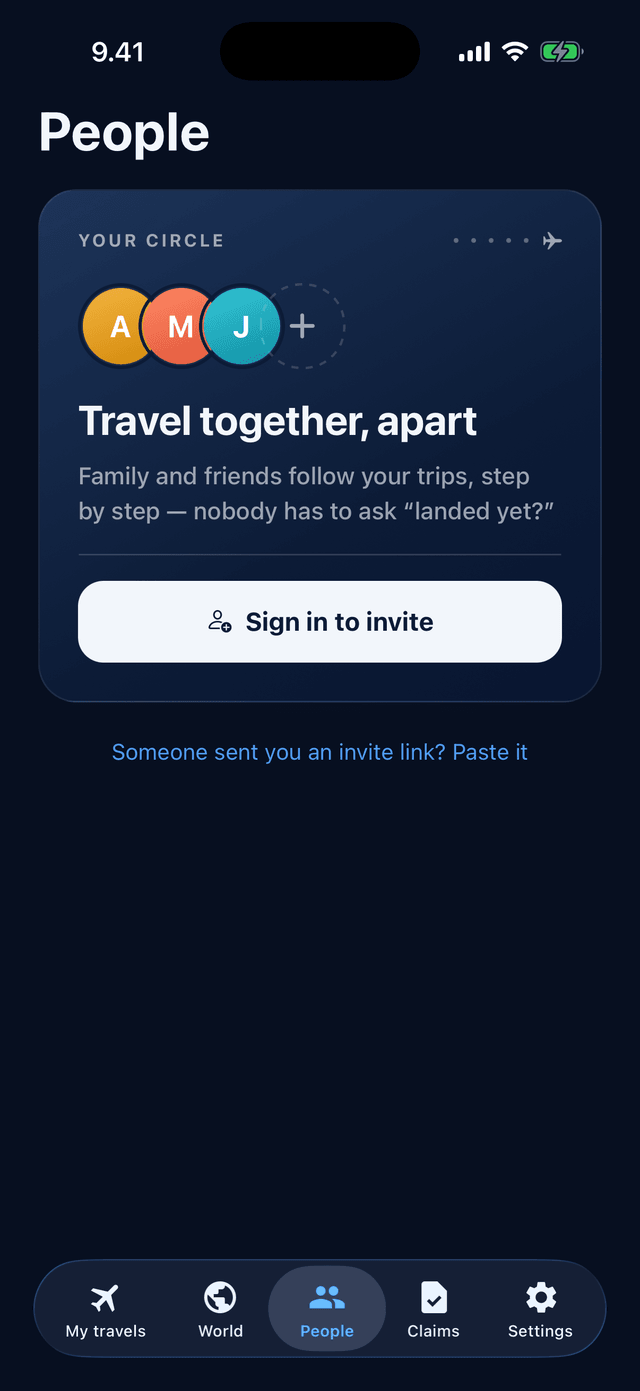
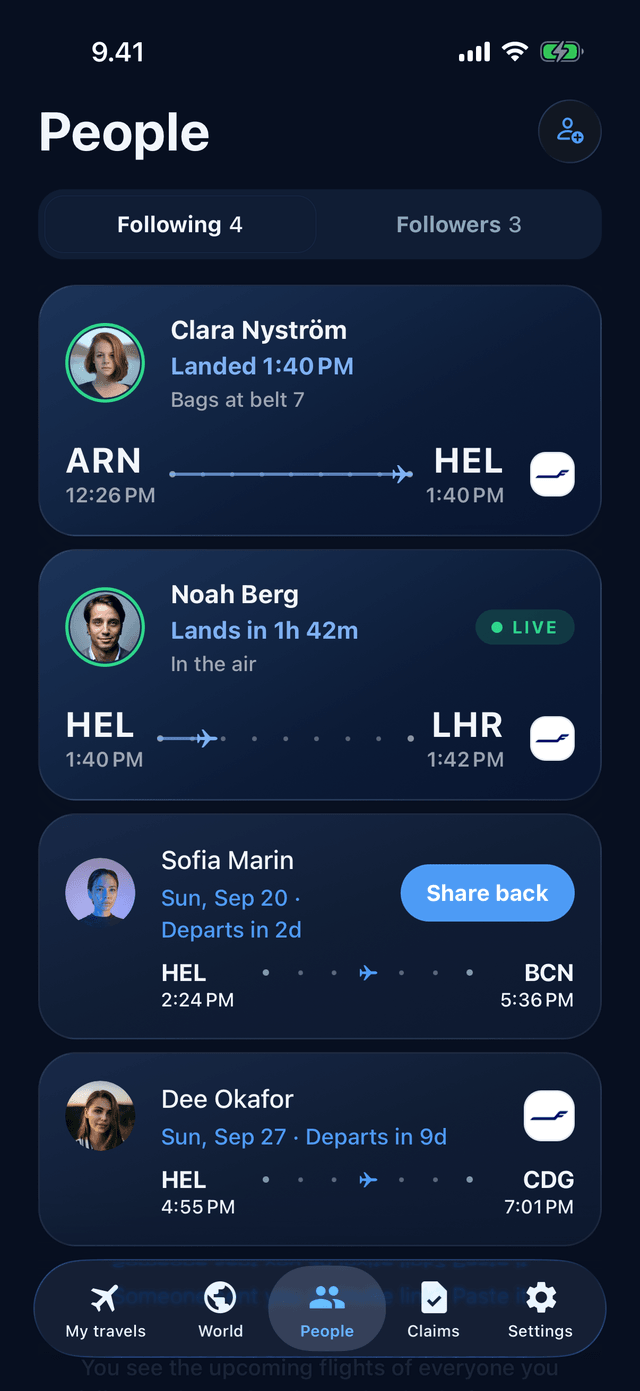
Website: People row shows a circle with real states, mocked on dev
The "People who fly with you" row's capture was the tab's empty state.
It is now Eve's People tab on the dev deployment with synthetic people
seeded by devTools:seedDemoCircle — one in the air right now, one landed
today, one departing in two days, one in nine, one follower waiting on a
follow-back — captured in both themes. The seeder now writes profile rows
for people with no Clerk account behind them, and Unsplash joins the
avatar allow-list so seeded people carry stock portraits rather than
letter avatars. No production accounts were created.

diff --git a/convex/devTools.ts b/convex/devTools.ts
@@ -152,6 +152,10 @@ export const seedDemoCircle = internalMutation({
     people: v.array(
       v.object({
         userId: v.string(),
+        /** Writes the profile row too — for a synthetic person with no Clerk
+         * account behind them (dev deployments). */
+        name: v.optional(v.string()),
+        imageUrl: v.optional(v.string()),
         relation: v.union(v.literal('follow'), v.literal('follower'), v.literal('mutual'), v.literal('request')),
         close: v.optional(v.boolean()),
         trip: v.optional(
@@ -194,6 +198,16 @@ export const seedDemoCircle = internalMutation({
     };
 
     for (const person of people) {
+      if (person.name) {
+        const profile = await ctx.db
+          .query('profiles')
+          .withIndex('by_user', (q) => q.eq('userId', person.userId))
+          .unique();
+        const fields = { name: person.name, imageUrl: person.imageUrl ?? null, updatedAt: now };
+        if (profile) await ctx.db.patch(profile._id, fields);
+        else await ctx.db.insert('profiles', { userId: person.userId, ...fields });
+        out.push(`profile ${person.userId} ${person.name}`);
+      }
       if (person.relation === 'follow' || person.relation === 'mutual') await link(person.userId, demoUserId, person.close);
       if (person.relation === 'follower' || person.relation === 'mutual') await link(demoUserId, person.userId, person.close);
       if (person.relation === 'request') {

diff --git a/convex/profileShared.ts b/convex/profileShared.ts
@@ -1,8 +1,11 @@
-/** Only Clerk's image service may supply a remote profile image. */
+/** Clerk's image hosts, where every real profile photo lives, plus Unsplash for the
+ * stock portraits of seeded demo people (devTools.seedDemoCircle). */
+const AVATAR_HOSTS = ['img.clerk.com', 'images.clerk.dev', 'images.unsplash.com'];
+
 export function safeAvatar(value: string | null): string | null {
   if (!value || value.length > 2048) return null;
   try {
     const url = new URL(value);
-    return url.protocol === 'https:' && !url.username && !url.password && ['img.clerk.com', 'images.clerk.dev'].includes(url.hostname) ? value : null;
+    return url.protocol === 'https:' && !url.username && !url.password && AVATAR_HOSTS.includes(url.hostname) ? value : null;
   } catch { return null; }
 }

diff --git a/docs/website.md b/docs/website.md
@@ -46,6 +46,18 @@ carry the app's tab bar and mount World/People/Claims behind it.
   `xcrun simctl io <udid> screenshot`. Downsize with sharp (`resize({ width: 640 })`,
   `png({ palette: true })`). Reshoot after visible UI changes; the store panels in
   `store-assets/raw` are a separate set.
+- The People capture is the **dev** deployment with synthetic people, never production
+  accounts: `devTools:seedDemoCircle` (internal; `npx convex run devTools:seedDemoCircle
+  '<json>'` against dev) upserts profile rows (name + Unsplash portrait — `images.unsplash.com`
+  is on the avatar allow-list in `convex/profileShared.ts` for exactly this), circle rows,
+  journeys and live sessions at a stage. The 2026-09-18 set, around Eve
+  (`eve+clerk_test@example.com`, OTP 424242, dev client on the iPhone 17 Pro sim): Noah Berg
+  in the air (`departed`, −1.4 h), Clara Nyström landed (`landed`, belt 7, close circle,
+  mutual), Sofia Marin departing in 2 days, Dee Okafor in 9 days, Leo Andersson as a
+  follower ("Follow back"). Args saved in that session's scratchpad `seed-args.json`.
+  Finding the viewer's Clerk id: the client only writes its `profiles` row when the Clerk
+  user has a first name; `peopleSeen` (newest row) is the fallback. Dismiss the dev
+  client's "Open debugger to view warnings" toast (tap ≈92 %, 93 %) before capturing.
 - `public/og-image.png` (1200×630) and `public/apple-touch-icon.png`: `node
   scripts/generate-og-image.mjs`.
 - Store badges: `assets/images/badge-app-store.png`, `badge-google-play.png`.
@@ -68,14 +80,26 @@ with a hover *function* style must not be children of `Link asChild` — use `us
 `src/components/phone-video.web.tsx` lays a muted, looping `<video>` (raw element via
 `unstable_createElement`, typed in `src/types/react-native-web.d.ts`) over the still, attached
 only once the frame nears the viewport, never under reduced motion; the still stays if
-autoplay is refused. The hero's World phone plays `public/video/world-{light,dark}.mp4`
-(~10 s, 560 px wide, H.264 CRF 27, ≈0.6–1.1 MB): cut from the user's own iPhone screen
-recordings of the World tab (2026-09-18, 8:36 dark / 8:37 light), sped up 1.25×, the
-recording's status bar replaced by the 9:41 strip from the matching still, and the tail
-dissolved into the head (`xfade` 0.6 s, then trim the first 0.6 s) so the loop is seamless.
-Recipe in the 2026-09-18 session's scratchpad `globe-video/`; reproduce with ffmpeg:
-`-ss/-to` cut → `setpts=PTS/1.25,fps=30` → `overlay` strip → `scale=560:-2` → xfade with
-its own first 0.6 s at `offset=duration-0.6` → `trim=start=0.6`.
+autoplay is refused. Both hero phones play loops from `public/video/` (560 px wide, H.264
+CRF 27), one per theme:
+
+- `world-{light,dark}.mp4` (~20–23 s, 0.8–1.5 MB): the globe spun, zoomed and recentred, cut
+  from the user's own iPhone screen recordings of the World tab (2026-09-18, 8:36 dark /
+  8:37 light), slowed to 0.625× real time (the 1.25× first cut "looked too fast"), the
+  recording's status bar replaced by the 9:41 strip from the matching still.
+- `journeys-{light,dark}.mp4` (~10 s, 0.12 MB): My travels with the live card's running
+  border, `xcrun simctl io <udid> recordVideo` on the seeded Shots simulator.
+
+Every loop's tail is dissolved into its head (`xfade` 0.6 s against the clip's own first
+0.6 s at `offset = duration − 0.6`, then `trim=start=0.6`) so it restarts without a jump.
+Recipe: 2026-09-18 scratchpad `globe-video/` (`stitch.mjs` does the dissolve; do the
+arithmetic in node — `bc` is not on this Mac). Pipeline per clip: `-ss/-to` cut →
+`setpts=PTS/<speed>,fps=30` → `overlay` status strip → `scale=560:-2` → stitch.
+
+Values only the browser knows (viewport width, locale, user agent) go through
+`hooks/use-client-value.web.ts` (`useSyncExternalStore` with a server snapshot); reading
+them directly in render made the server and client disagree and React threw hydration
+error #418 on desktop.
 
 ## Layout gotchas (react-native-web)
 
